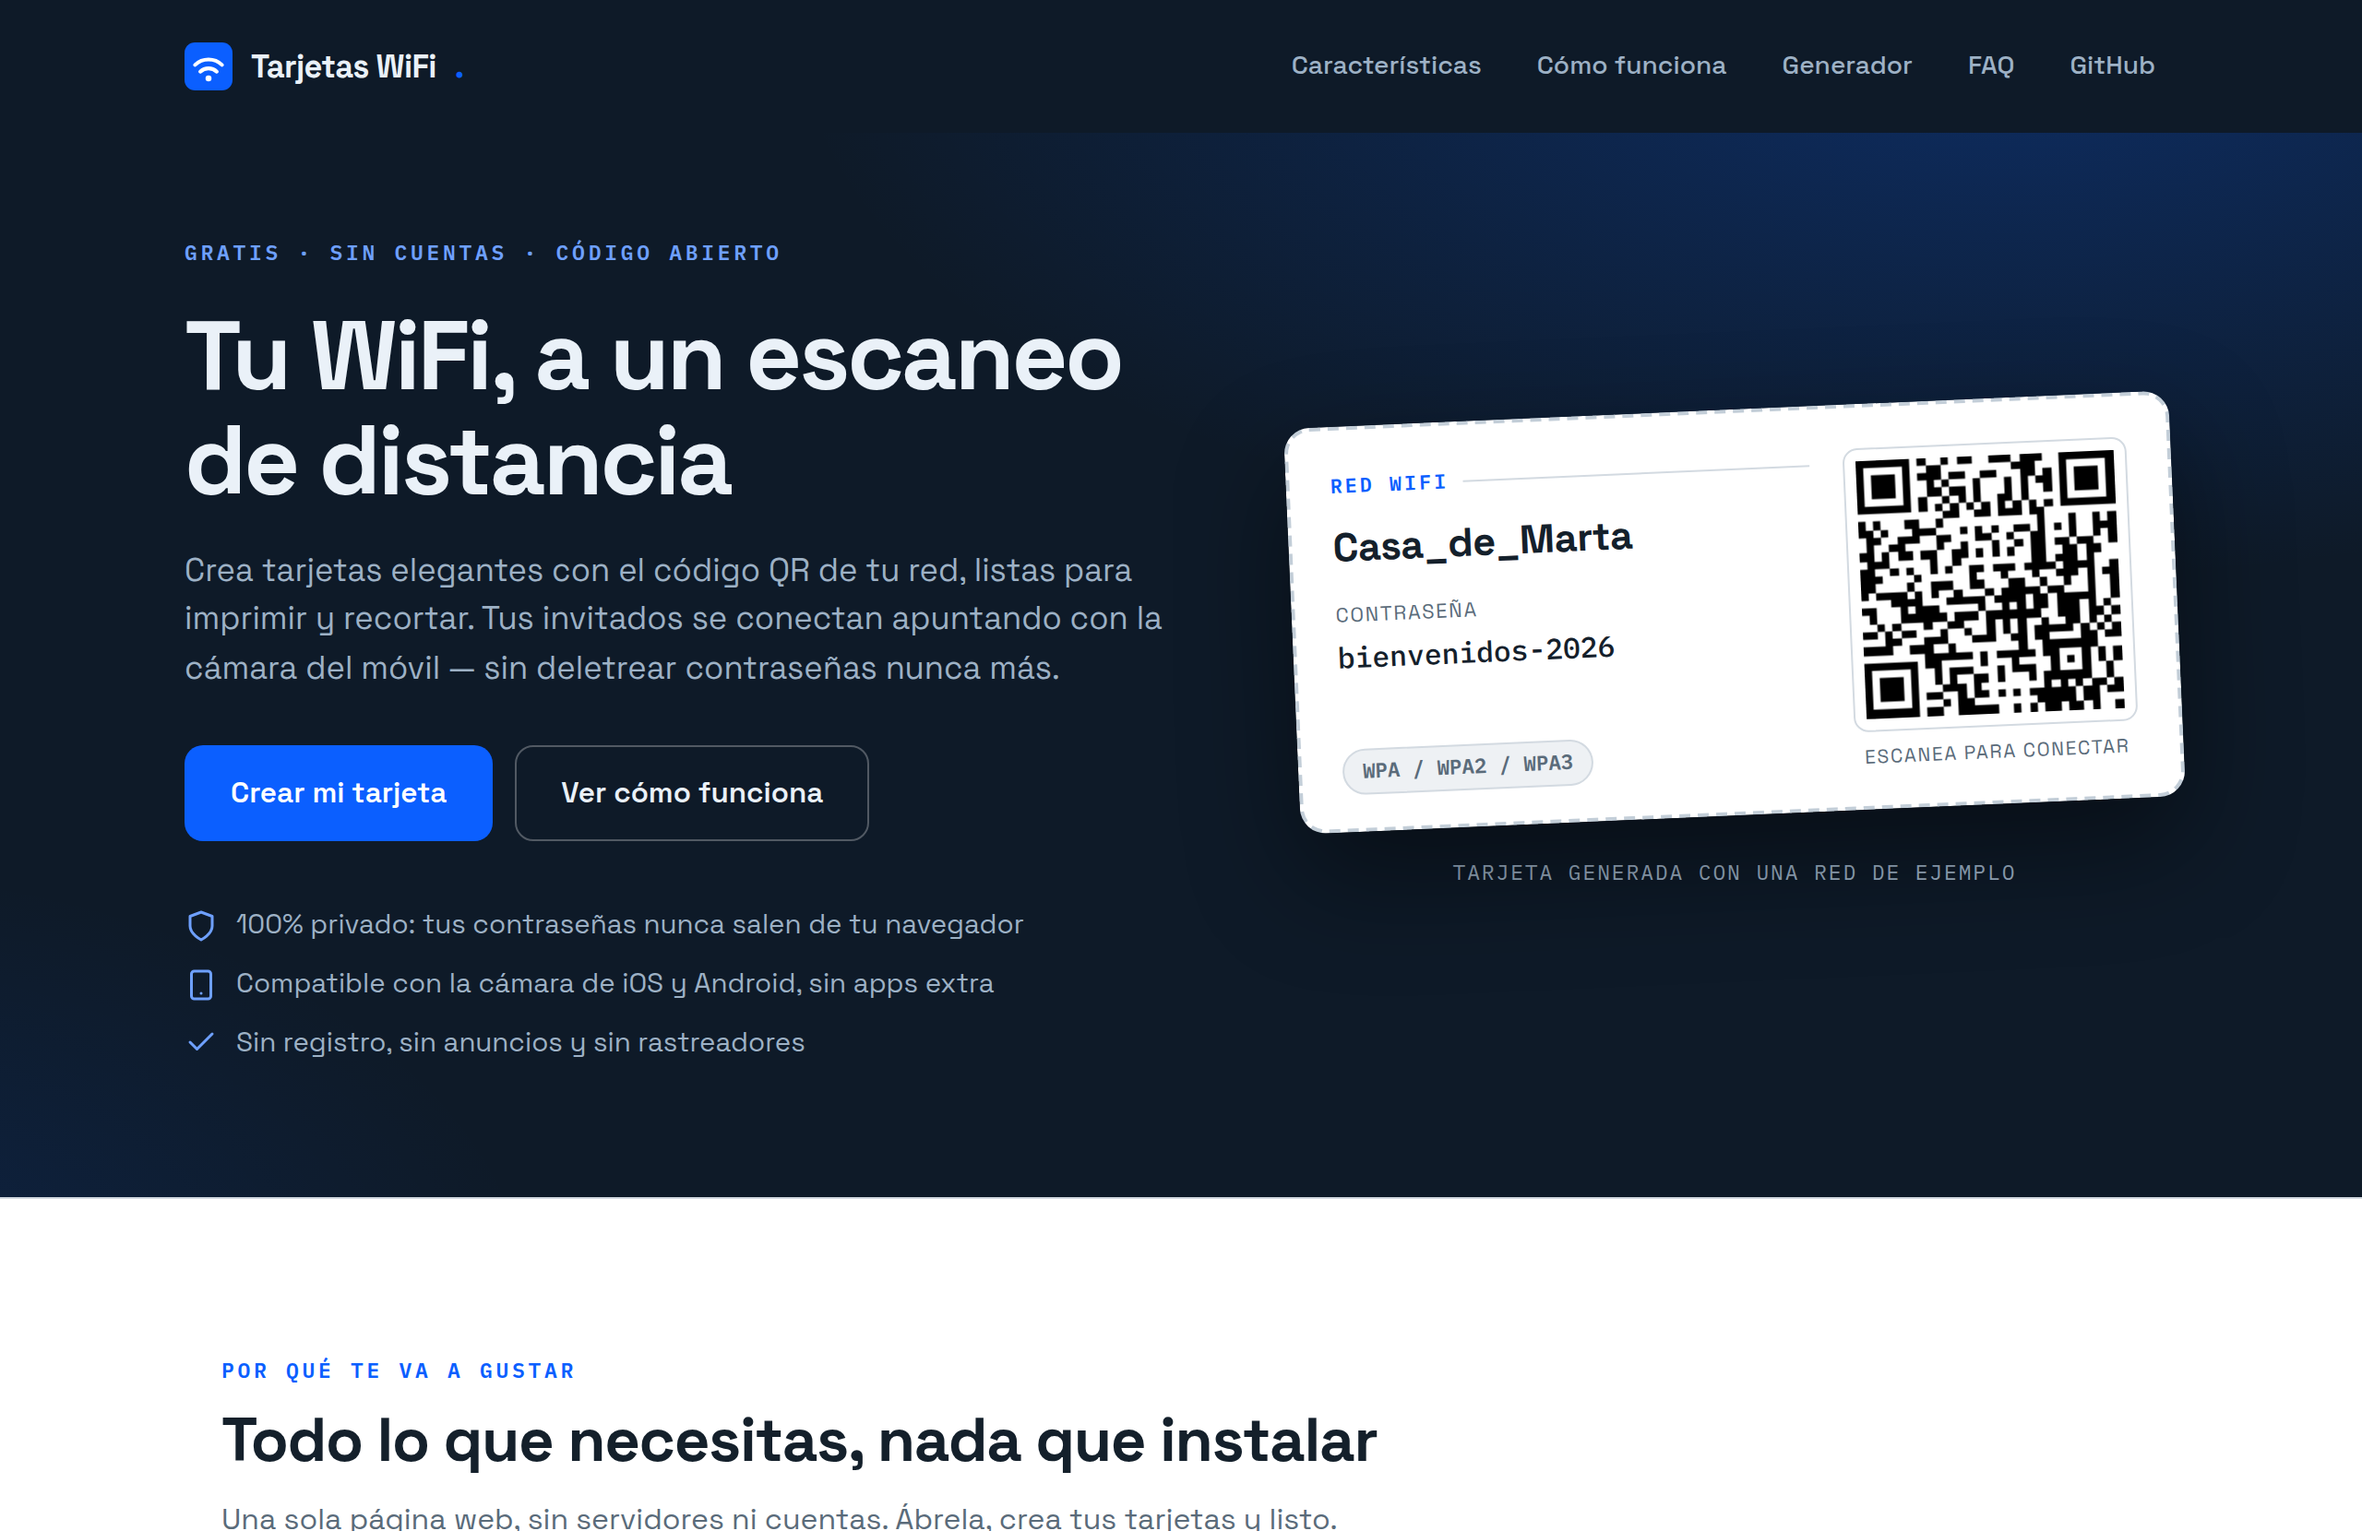
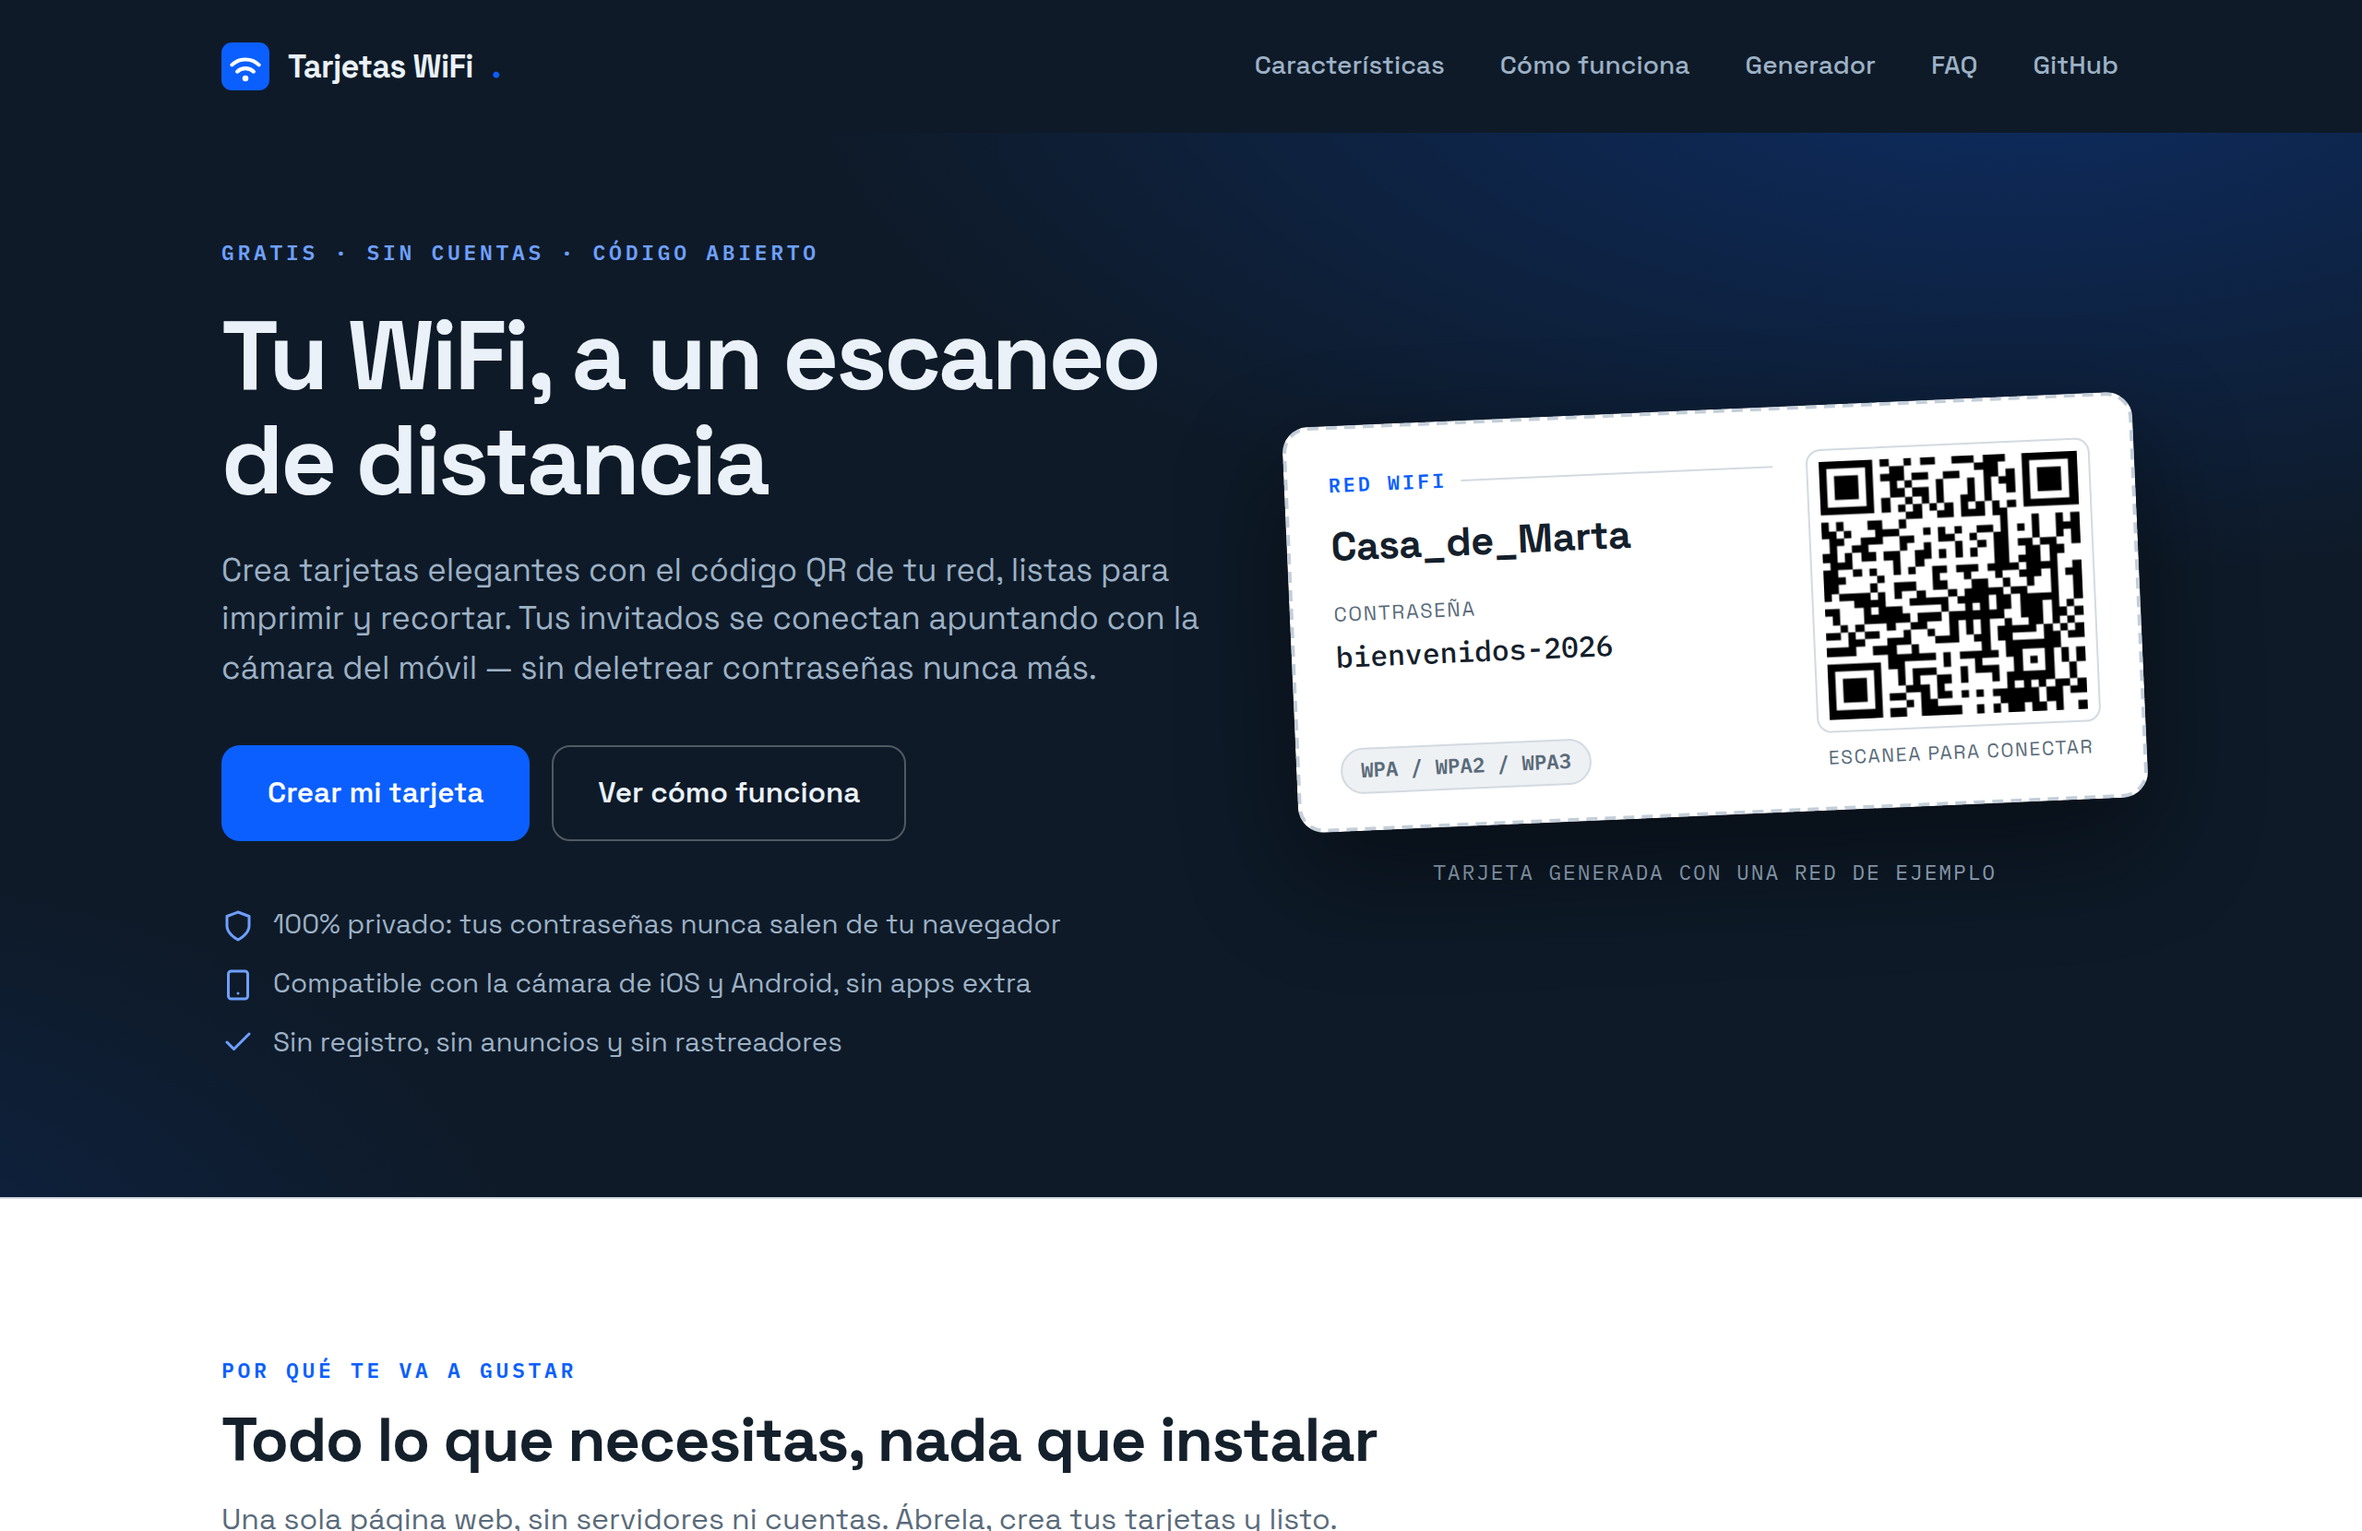
Restore side padding lost to padding shorthands on wrap elements
.hero .inner and .site-head .bar set padding shorthands with 0 on the
horizontal axis, overriding .wrap's 20px side padding on the same
element — on mobile the hero text and header touched the screen edge.
Use padding-top/padding-bottom longhands so .wrap keeps the sides.

diff --git a/assets/styles.css b/assets/styles.css
@@ -80,7 +80,9 @@ section { scroll-margin-top: 24px; }
 }
 .site-head .bar {
   display: flex; align-items: center; justify-content: space-between;
-  gap: 16px; padding: 18px 0;
+  gap: 16px;
+  /* Solo vertical: el lateral lo aporta .wrap (20px) */
+  padding-top: 18px; padding-bottom: 18px;
 }
 .brand {
   display: flex; align-items: center; gap: 10px;
@@ -111,7 +113,8 @@ section { scroll-margin-top: 24px; }
 .hero .inner {
   display: grid; grid-template-columns: 1.15fr 1fr;
   gap: 48px; align-items: center;
-  padding: 56px 0 72px;
+  /* Solo vertical: el lateral lo aporta .wrap (20px) */
+  padding-top: 56px; padding-bottom: 72px;
 }
 .hero .eyebrow {
   font-family: var(--font-mono);
@@ -495,7 +498,7 @@ dialog.legal .dlg-body a { color: var(--accent); }
 
 /* ---------- Responsive ---------- */
 @media (max-width: 980px) {
-  .hero .inner { grid-template-columns: 1fr; gap: 40px; padding: 44px 0 56px; }
+  .hero .inner { grid-template-columns: 1fr; gap: 40px; padding-top: 44px; padding-bottom: 56px; }
   .hero .showcase { max-width: 520px; }
   .features .grid, .steps { grid-template-columns: 1fr 1fr; }
   .result-panel { grid-template-columns: 1fr; }
@@ -505,13 +508,13 @@ dialog.legal .dlg-body a { color: var(--accent); }
 }
 @media (max-width: 720px) {
   /* Cabecera apilada: marca arriba y navegación centrada debajo */
-  .site-head .bar { flex-direction: column; align-items: center; gap: 4px; padding: 14px 0 10px; }
+  .site-head .bar { flex-direction: column; align-items: center; gap: 4px; padding-top: 14px; padding-bottom: 10px; }
   .site-head nav { justify-content: center; }
   .site-head nav a { padding: 6px 10px; font-size: 0.84rem; }
 }
 @media (max-width: 640px) {
   .section { padding: 56px 0; }
-  .hero .inner { padding: 36px 0 48px; gap: 34px; }
+  .hero .inner { padding-top: 36px; padding-bottom: 48px; gap: 34px; }
   .hero .cta-row { flex-direction: column; align-items: stretch; }
   .hero .cta-row .btn { justify-content: center; }
   .features .grid, .steps { grid-template-columns: 1fr; }
